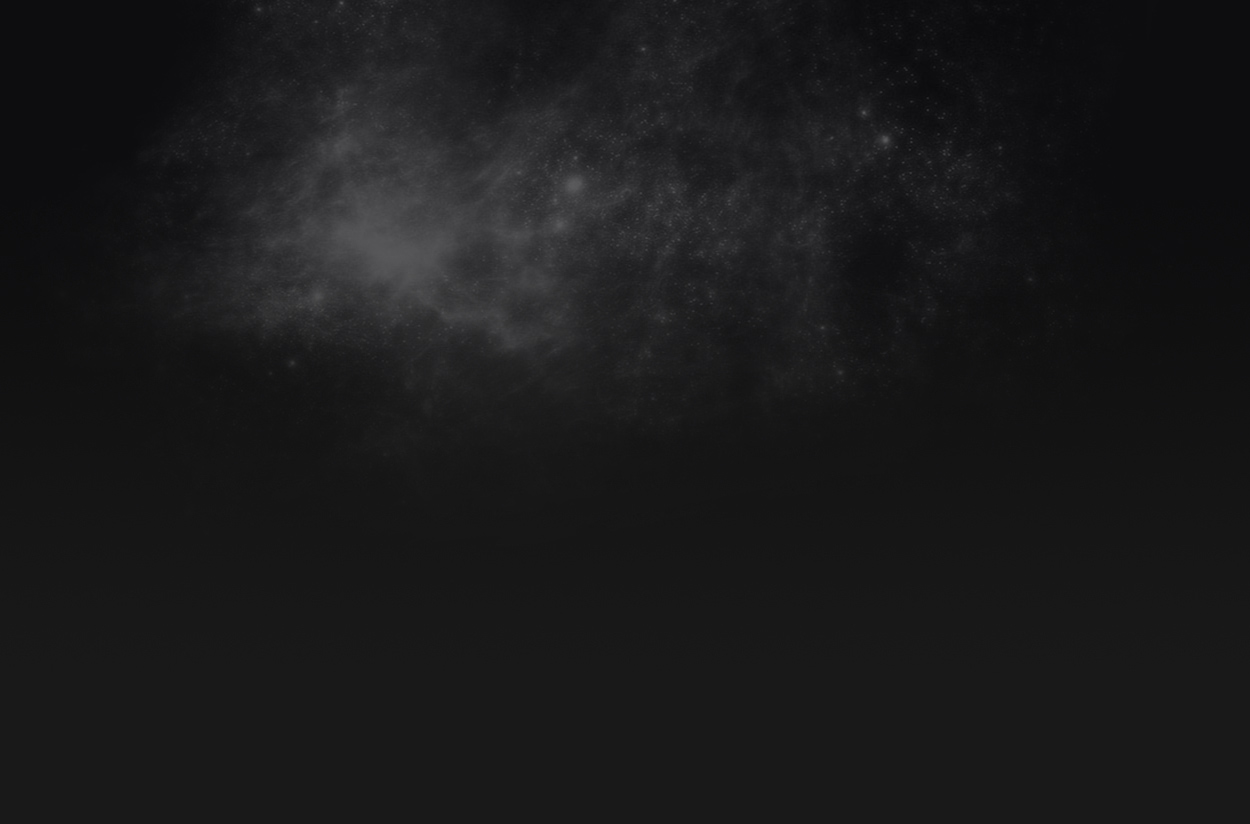
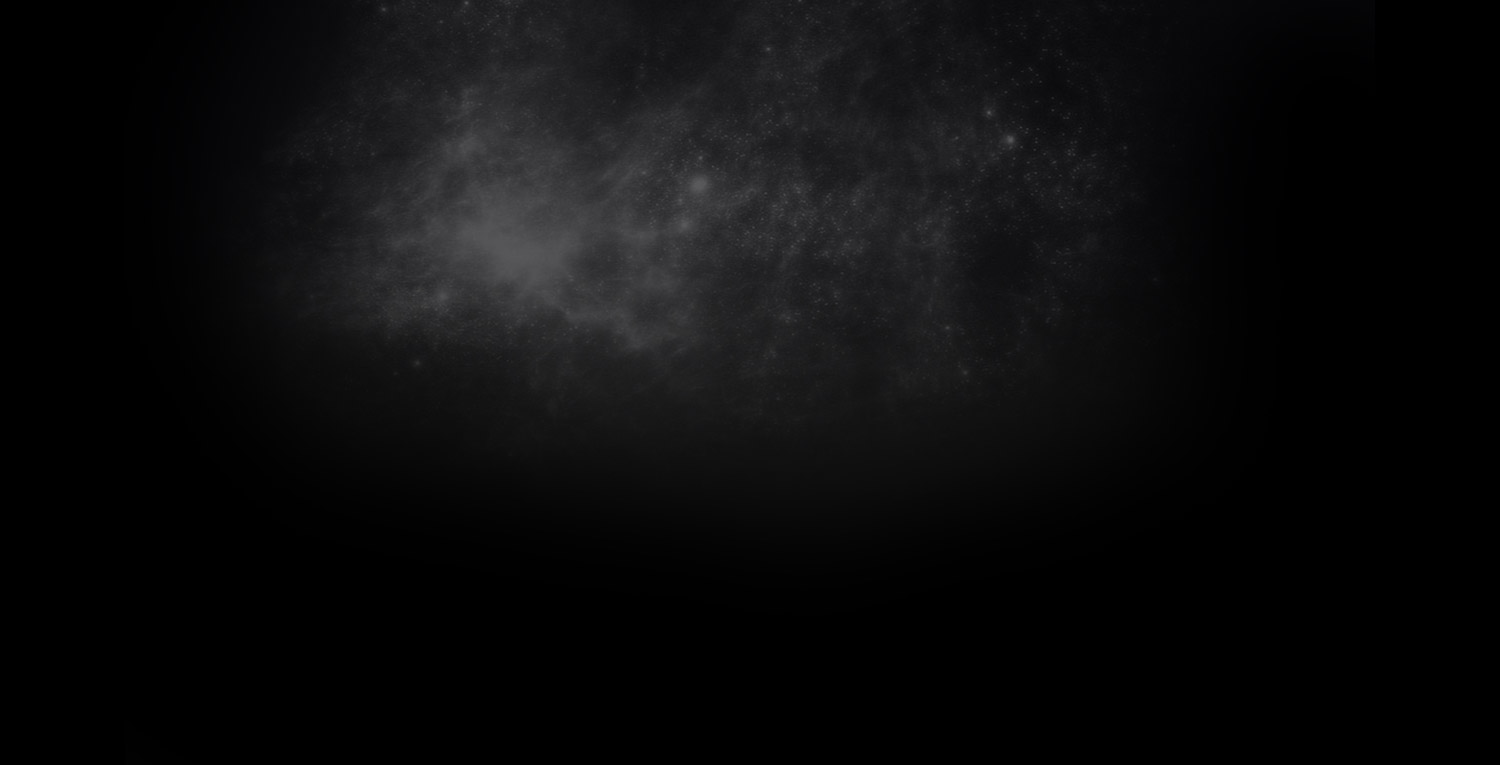
Fixed background for dynamic background use

diff --git a/themes/swtor/styles/swtor-styles.css b/themes/swtor/styles/swtor-styles.css
@@ -1,5 +1,5 @@
 html {
-  background: #191919 url('../images/repeat-bg.png') repeat-x fixed center top;
+  background: #000;
   height: 100%; /* Important for 100% body height*/
 }
 
@@ -287,8 +287,8 @@ tr.odd {
 /*--- Content ---*/
 
 #content {
-  background: url('../images/transparent-black-50.png');
-  background: rgba(0, 0, 0, .5);
+  background: url('../images/transparent-black-75.png');
+  background: rgba(0, 0, 0, .75);
   -moz-border-radius: 12px 12px 0 0;
   -webkit-border-radius: 12px 12px 0 0;
   border-radius: 12px 12px 0 0;
